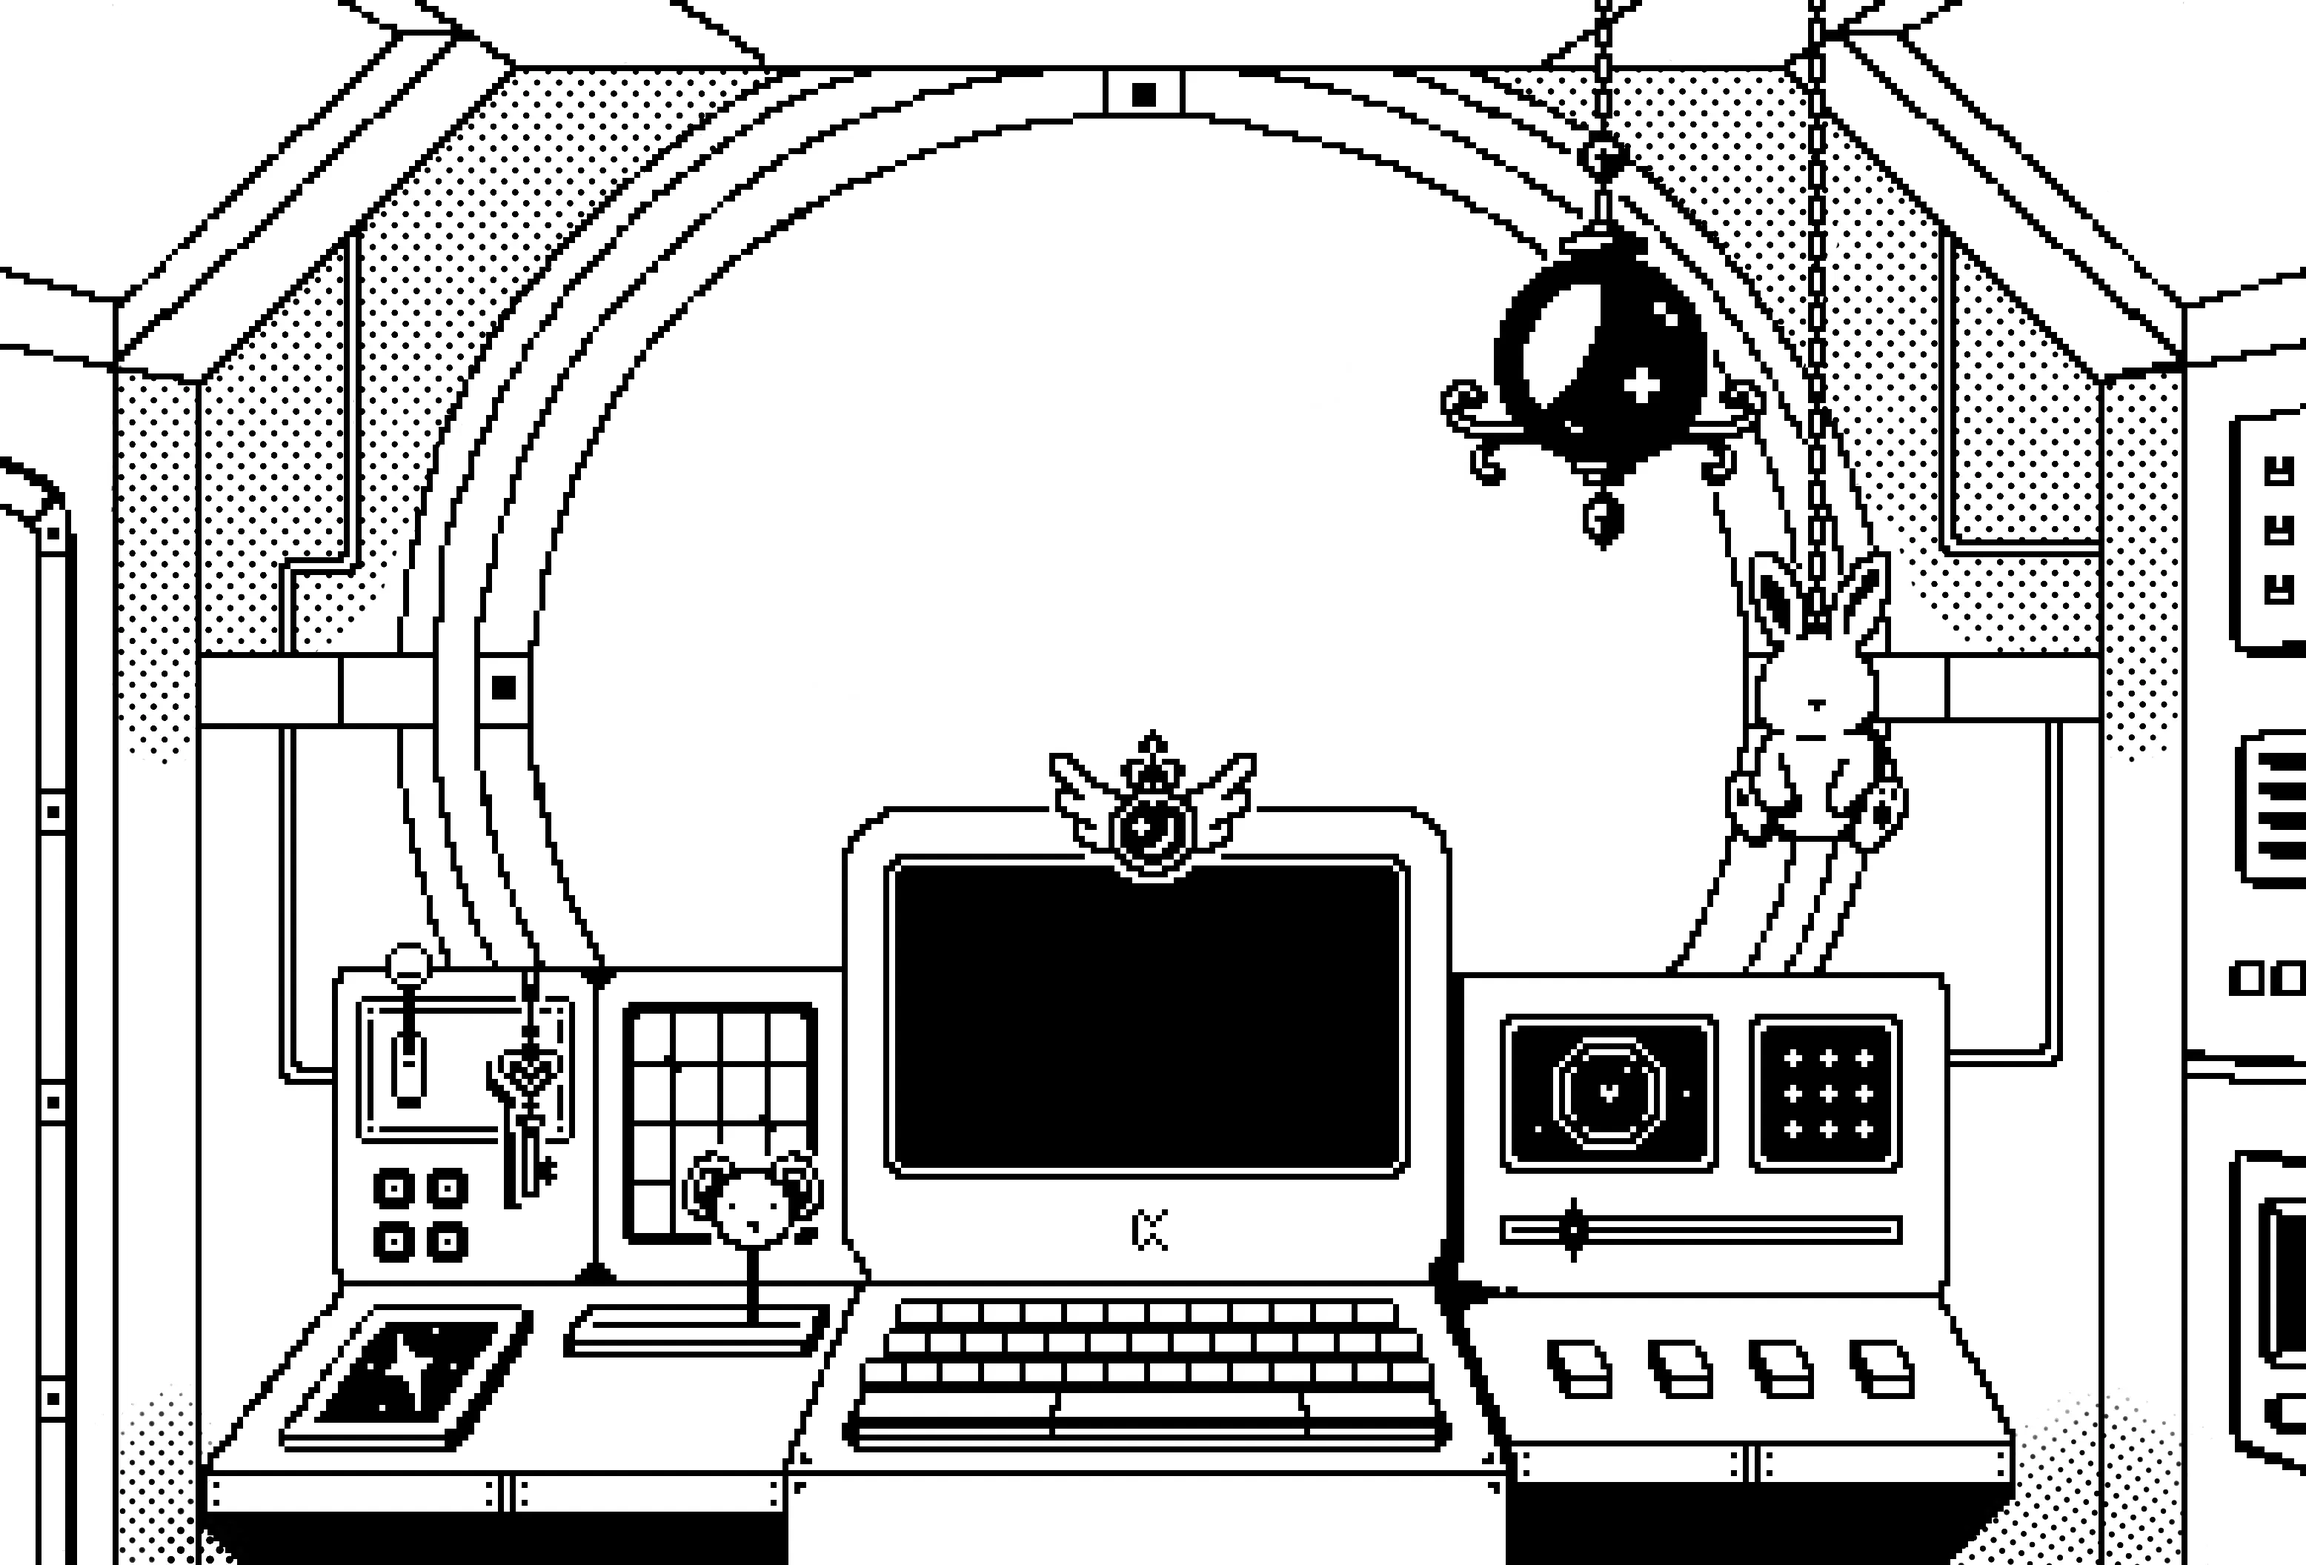
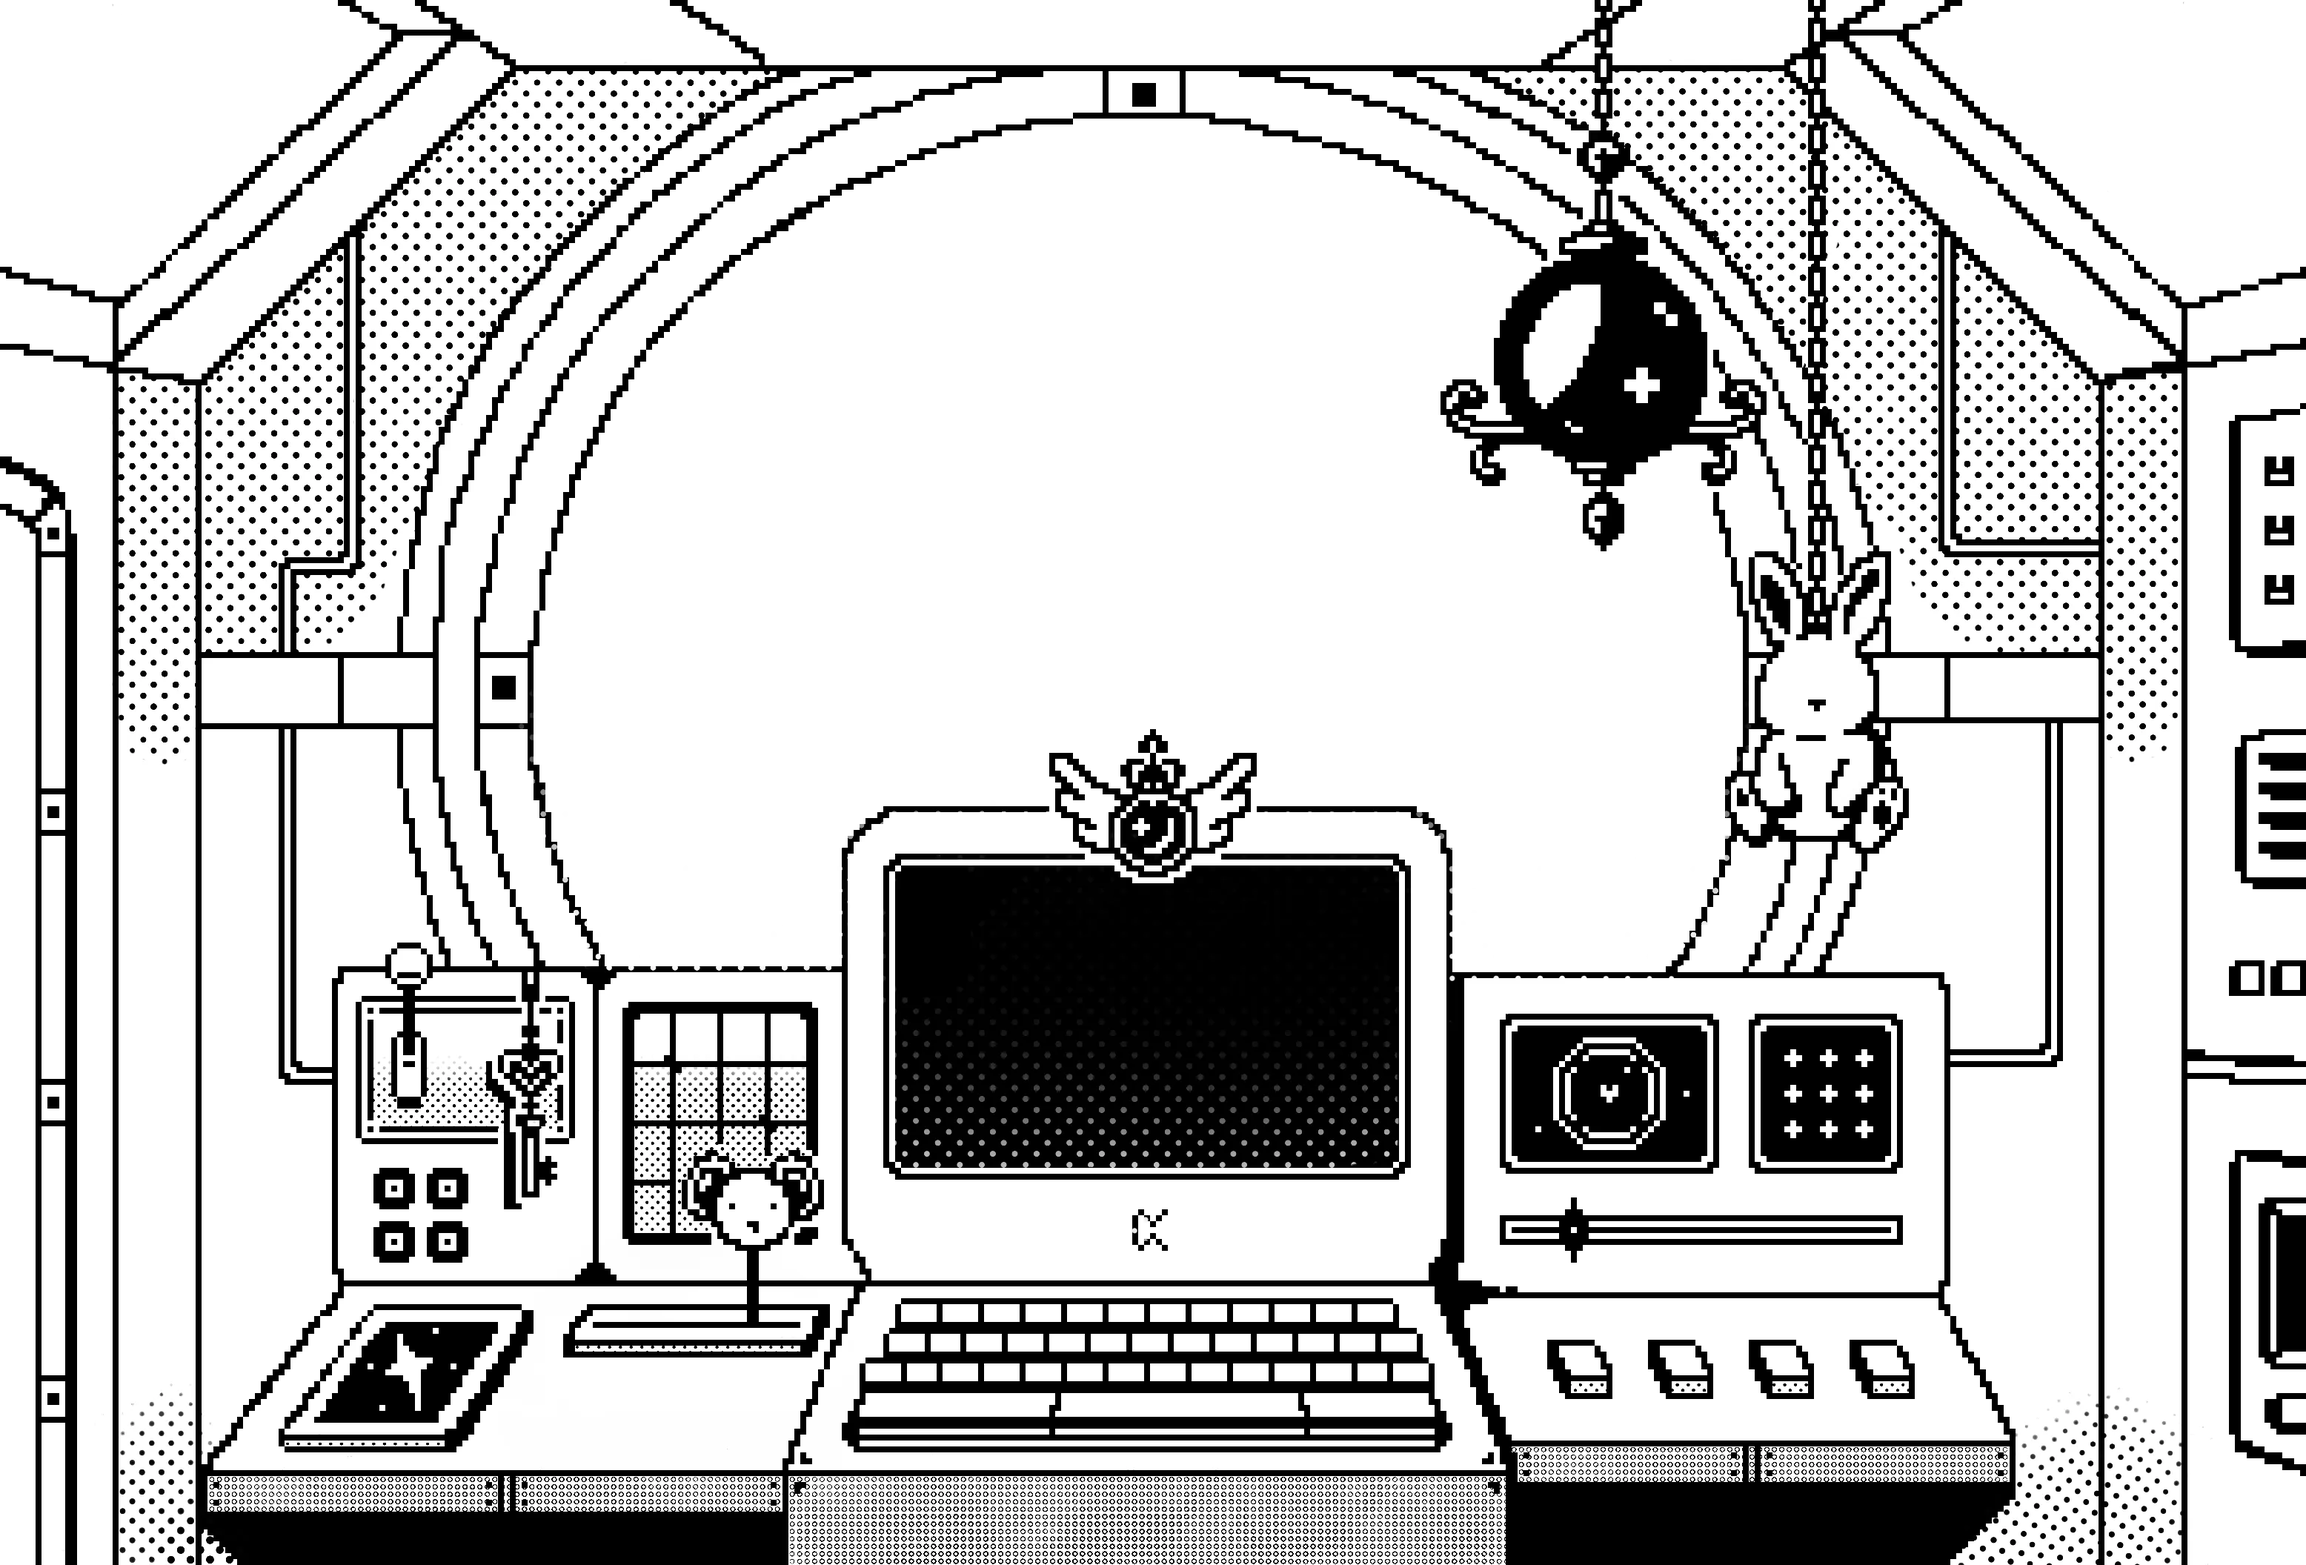
Update star fragment animation, update central node image.

diff --git a/src/components/star_fragment.js b/src/components/star_fragment.js
@@ -1,11 +1,10 @@
-import { Flex, Image, Span, Stack, Text } from "@chakra-ui/react";
+import { Box, Flex, Image, Span, Stack, Text } from "@chakra-ui/react";
 import { useEffect, useState } from "react";
 
 export default function StarFragment() {
   const baseValue = 67;
   const [value, setValue] = useState(baseValue);
   const [glitch, setGlitch] = useState(false);
-
 
   useEffect(() => {
     let timeout;
@@ -86,8 +85,25 @@ export default function StarFragment() {
             paddingBottom={2}
             gap={4}
           >
-            <Stack padding={2}>
-              <Image src={"/images/star_fragment.webp"} />
+            <Stack padding={2} position="relative">
+              <Image
+                src="/images/star_fragment_field.webp"
+                alt="Star Fragment Field"
+                zIndex={"1"}
+              />
+              <Box
+                className="star-fragment-wrap"
+                position="absolute"
+                zIndex="2"
+                top={133}
+                left={7}
+              >
+                <Image
+                  src="/images/star_fragment_core.webp"
+                  alt="Star Fragment Core"
+                  width="139px"
+                />
+              </Box>
             </Stack>
             <Text fontSize="15px" fontWeight={"bold"}>
               <Span color="#1916CD">&gt;</Span> Dream cache{" "}

diff --git a/src/components/monitor_flash.js b/src/components/monitor_flash.js
@@ -4,9 +4,9 @@ import { Box, Stack, Text, Span } from "@chakra-ui/react";
 import { useEffect, useState } from "react";
 
 const FRAGMENTS = [
-  ["> signal :: 0001", "▒▒▒▒ memory drift", ":: standby"],
+  ["> signal :: 0001", "▒▒▒▒ memory drift", "standby"],
   [":: node active", "> process ▒▒▒ unstable", ":: hold"],
-  ["> input :: received", "▒▒ render pending", ":: standby"],
+  ["> input received", "▒▒ render pending", ":: standby"],
   [":: archive trace", "> signal ▒▒ nominal", ":: hold"],
   ["> where :: 0000", "▒▒▒▒", ":: awaiting"],
 ];

diff --git a/src/app/globals.css b/src/app/globals.css
@@ -260,3 +260,25 @@ a {
     opacity: 0;
   }
 }
+
+/* Star Fragment */
+.star-fragment-wrap {
+  display: inline-block;
+  animation: fragmentFloat 9s ease-in-out infinite;
+}
+
+@keyframes fragmentFloat {
+  0%,
+  100% {
+    transform: translateY(0px) rotate(-1.5deg);
+  }
+  25% {
+    transform: translateY(-3px) rotate(-0.5deg);
+  }
+  50% {
+    transform: translateY(-3px) rotate(1deg);
+  }
+  75% {
+    transform: translateY(-3px) rotate(0deg);
+  }
+}

diff --git a/src/app/page.js b/src/app/page.js
@@ -177,7 +177,7 @@ export default function Home() {
               <Stack flex={1} height="full" minH={0}>
                 <Module
                   module={currentModule}
-                  debug={true}
+                  debug={false}
                   overlay={
                     <OverlayLayer
                       moduleId={activeModule}
